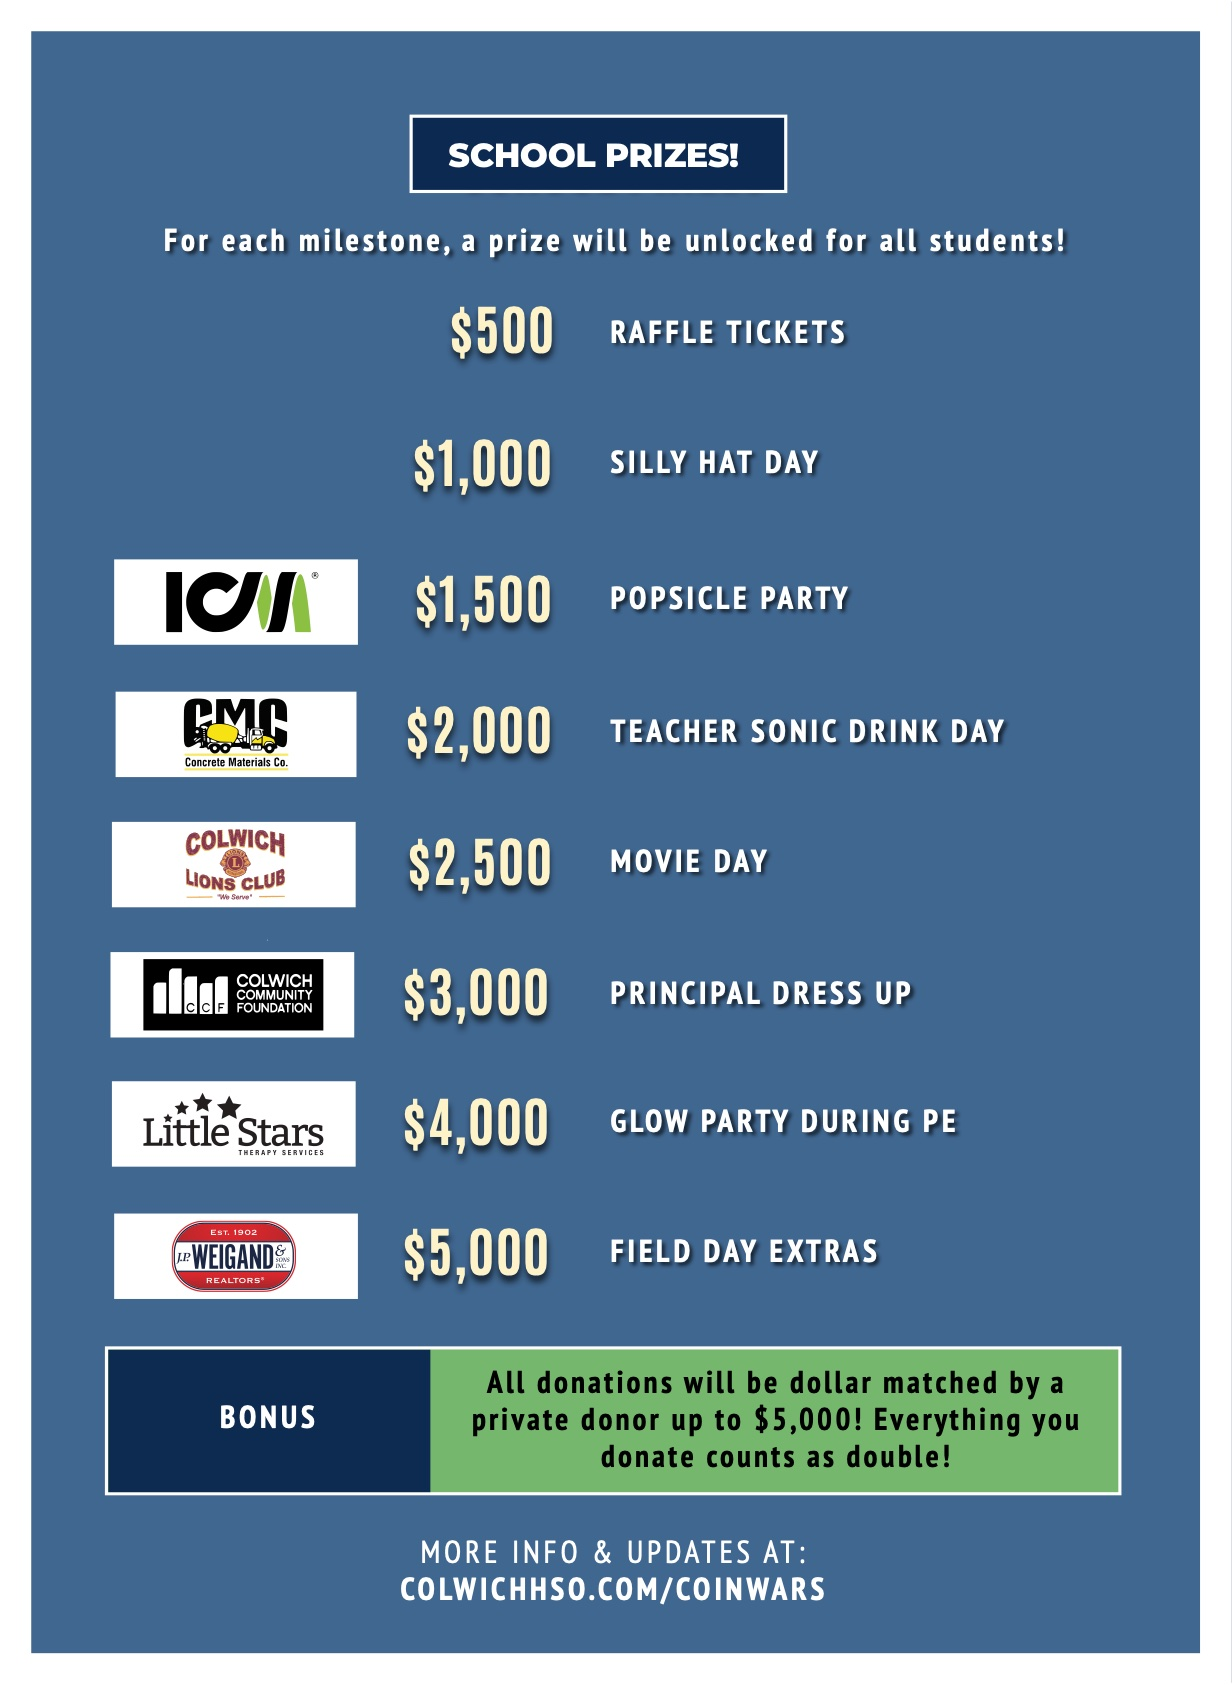
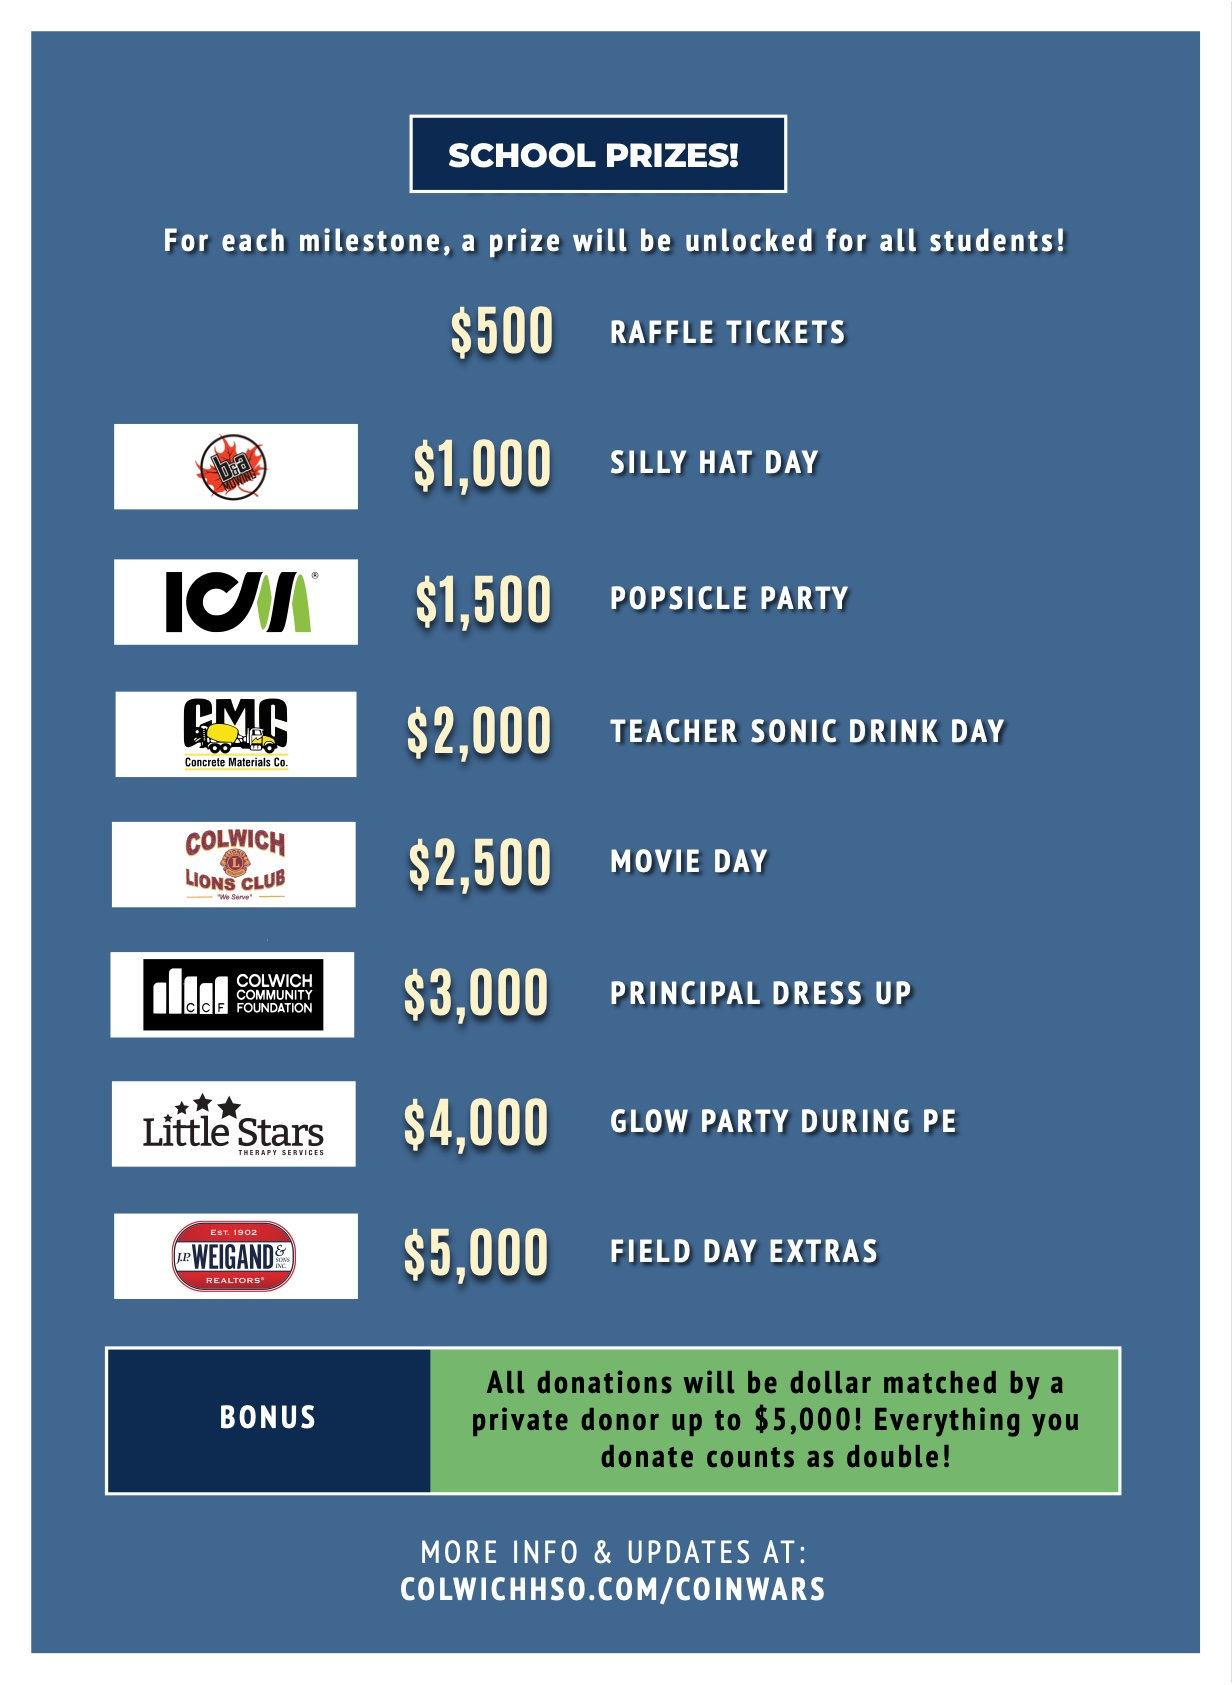
sponsor update

Changed region(s): [[0.0925, 0.2469, 0.3084, 0.3086]]

diff --git a/content/sponsors/bamowing.md b/content/sponsors/bamowing.md
@@ -5,7 +5,7 @@ sponsor_id: bamowing
 website: ""
 subtitle: "Jump Start proudly offers Simply Better Gasoline at all area locations."
 logo: "bamowing.svg"
-active: false
+active: true
 tier: 3
 ---
 Module content text assuming that there is a sub page.
